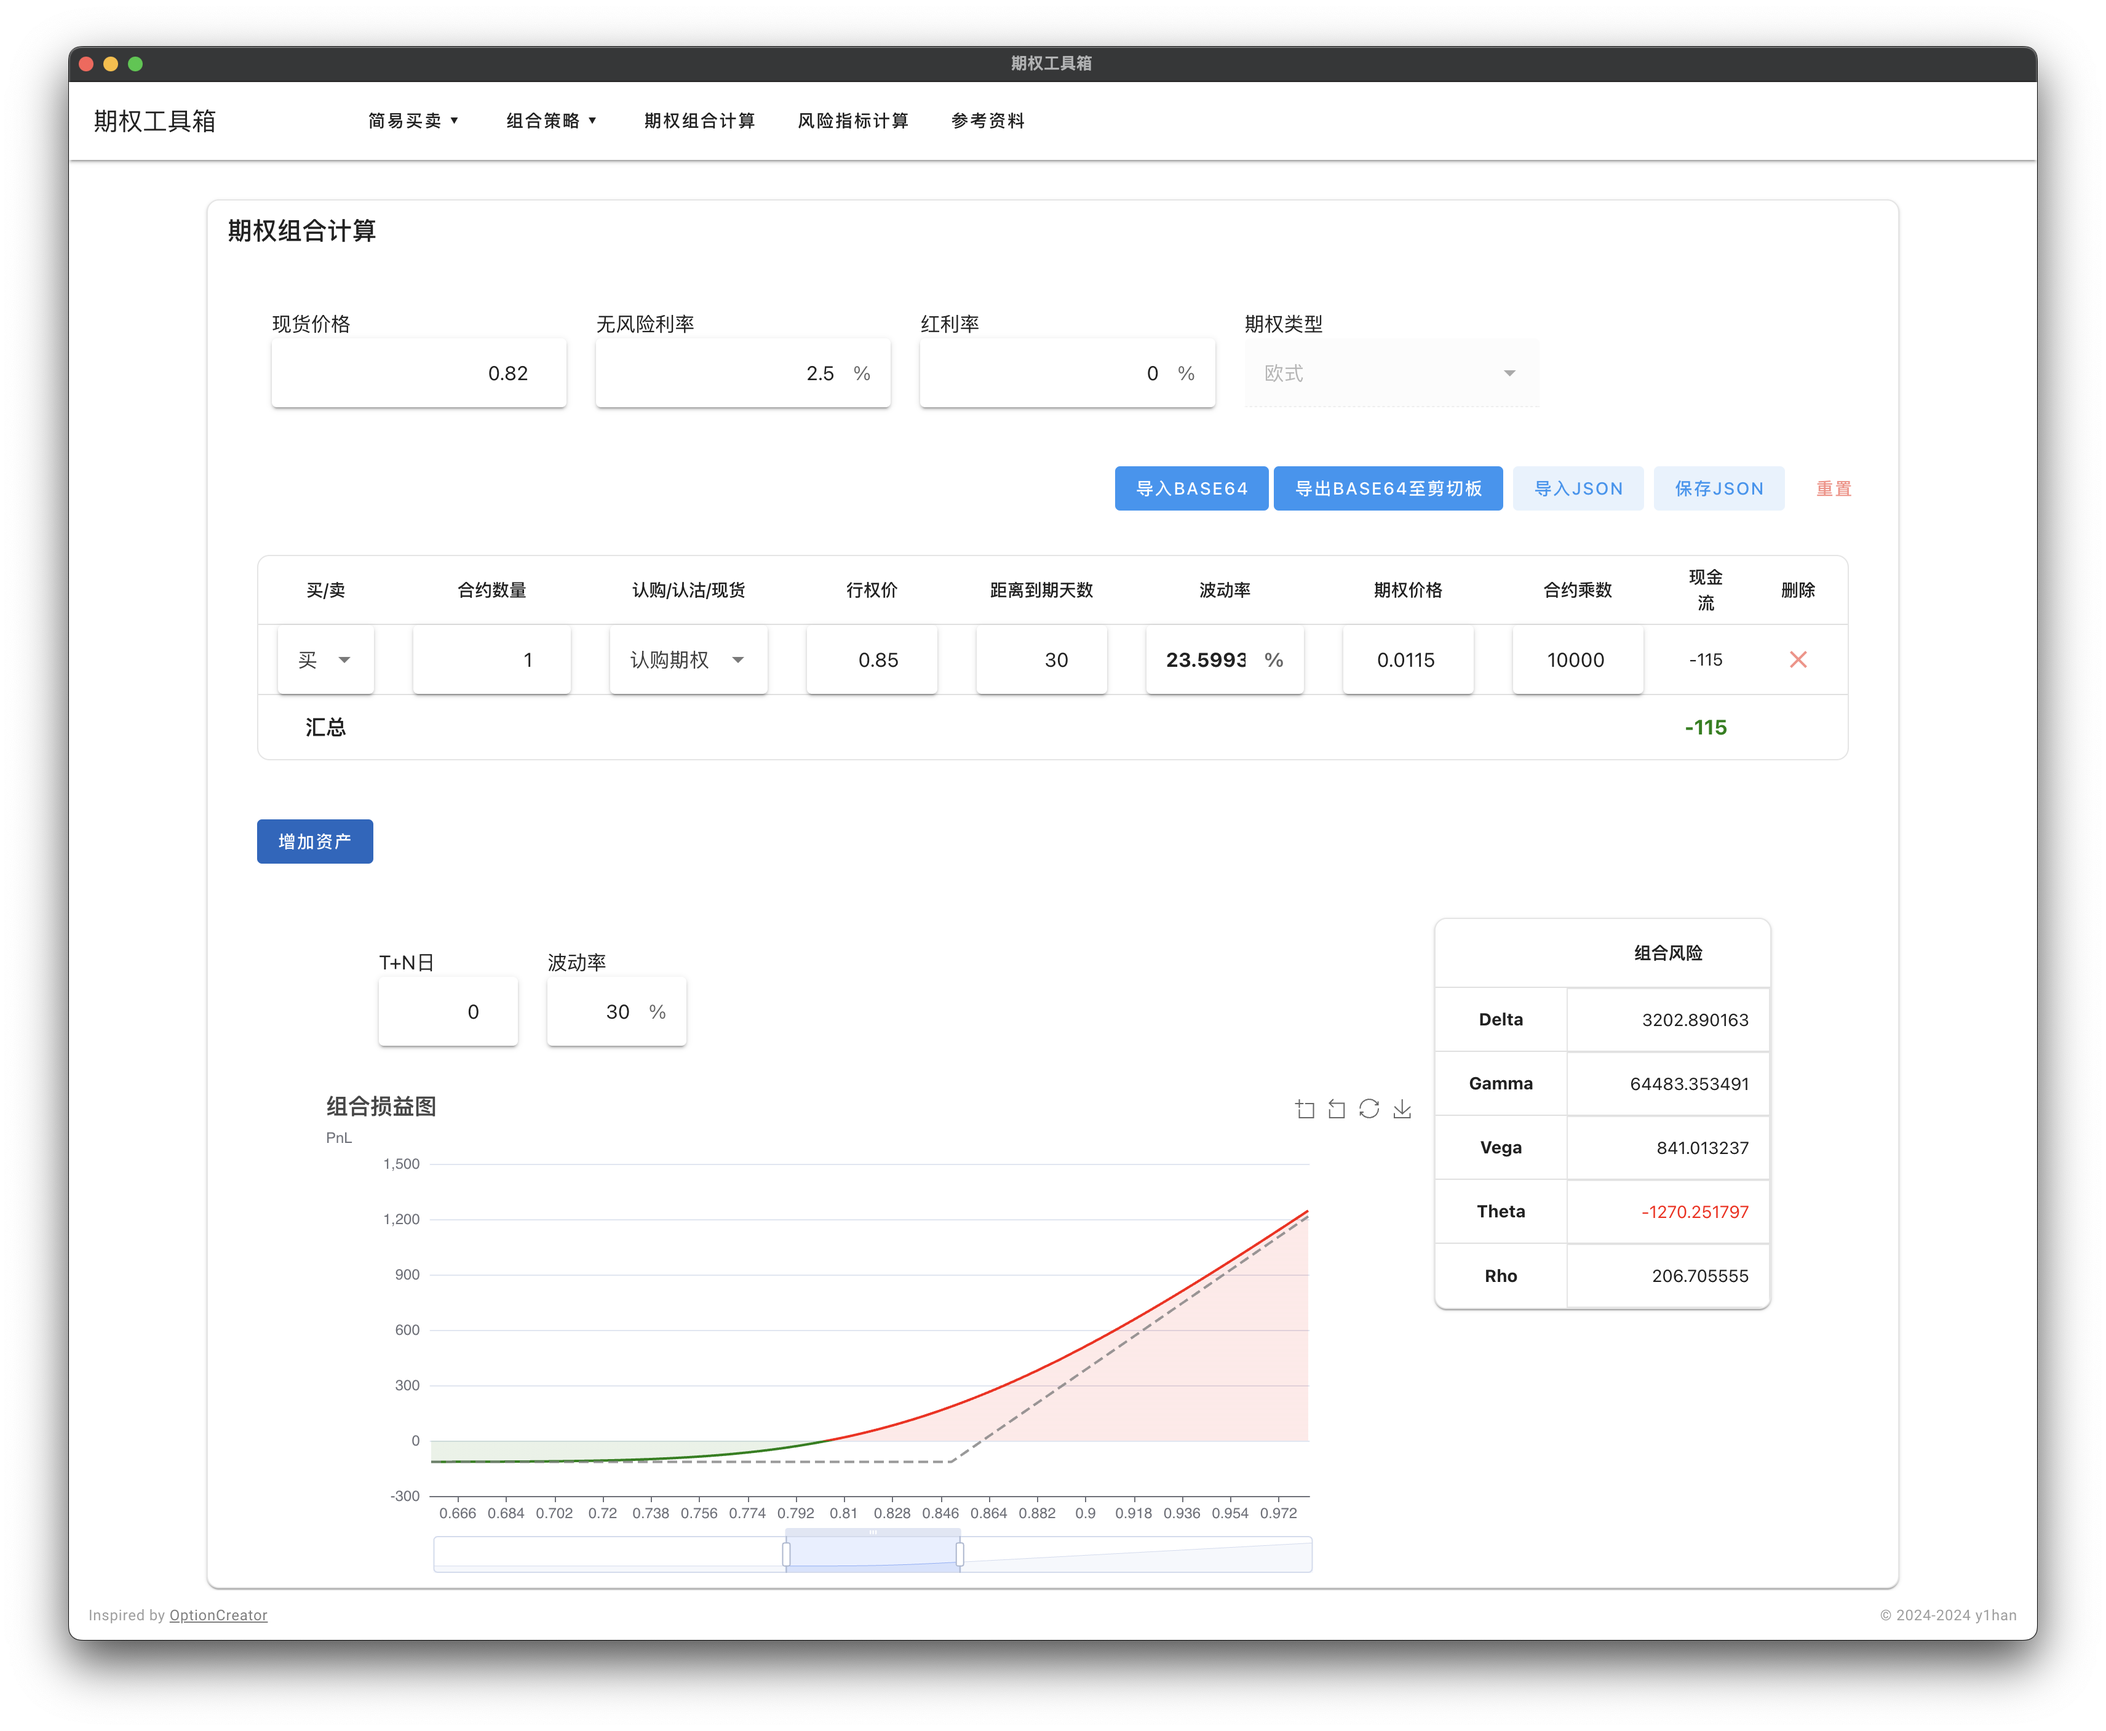
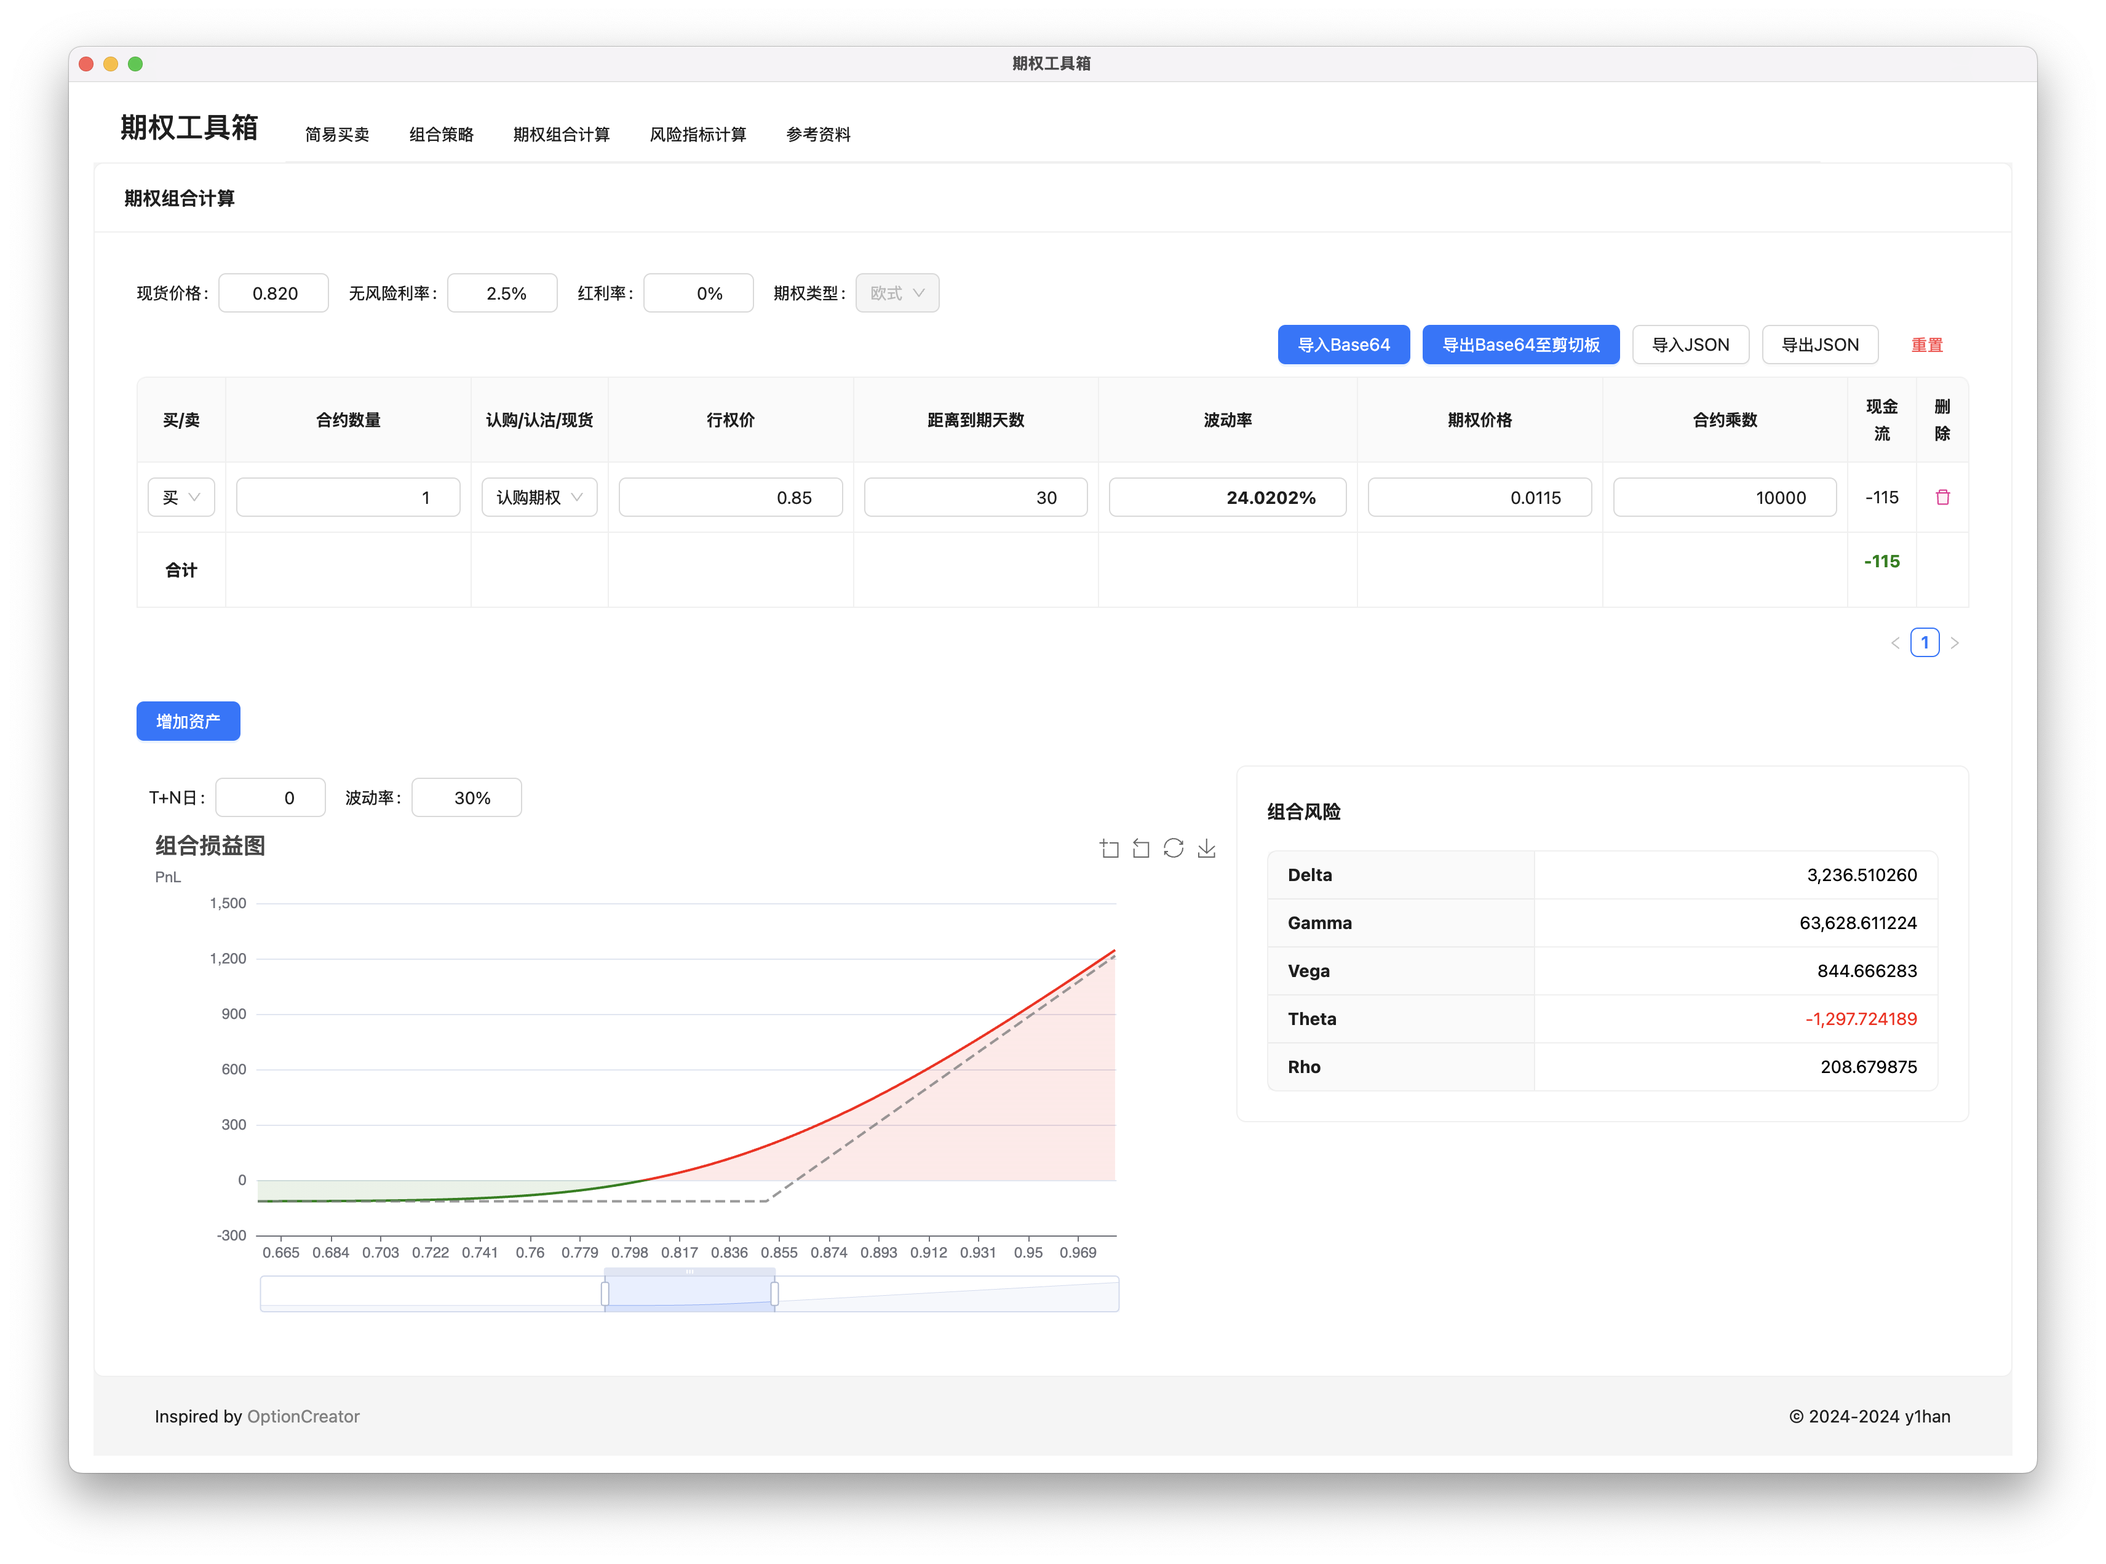
Update Description

diff --git a/Readme.md b/Readme.md
@@ -43,13 +43,11 @@ Inspired by <a href="https://optioncreator.com"> Option Creator </a>
 ## 主要工具
 - Electron
 - Vue
-- Vuetify
+- Ant Design Vue
 - ECharts
 - KaTex
 
 
 ## 已知问题
 
-1. 输入框无硬性限制，若数值过大可能会造成卡死的状况
-2. 调整窗口大小时会导致部分组件显示有错误
-3. mac版本文件过大，需要进行优化
+1. mac版本文件过大，需要进行优化
